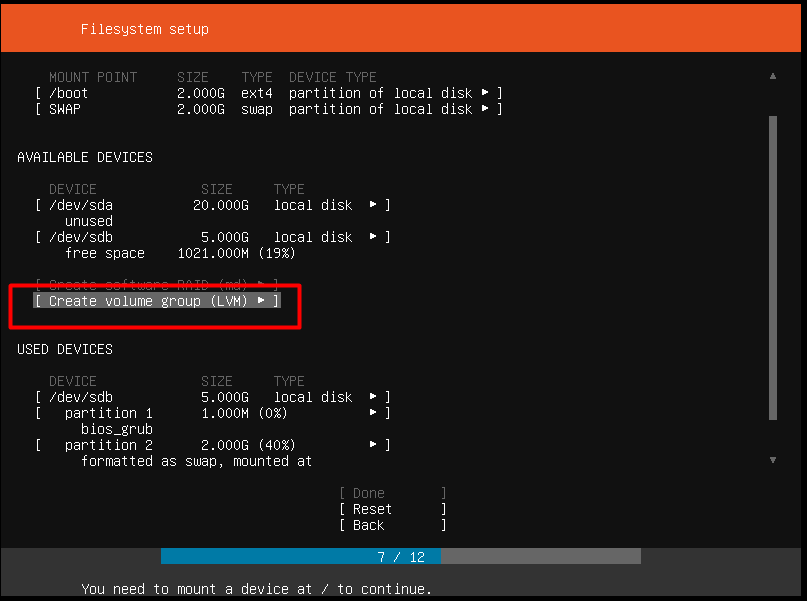
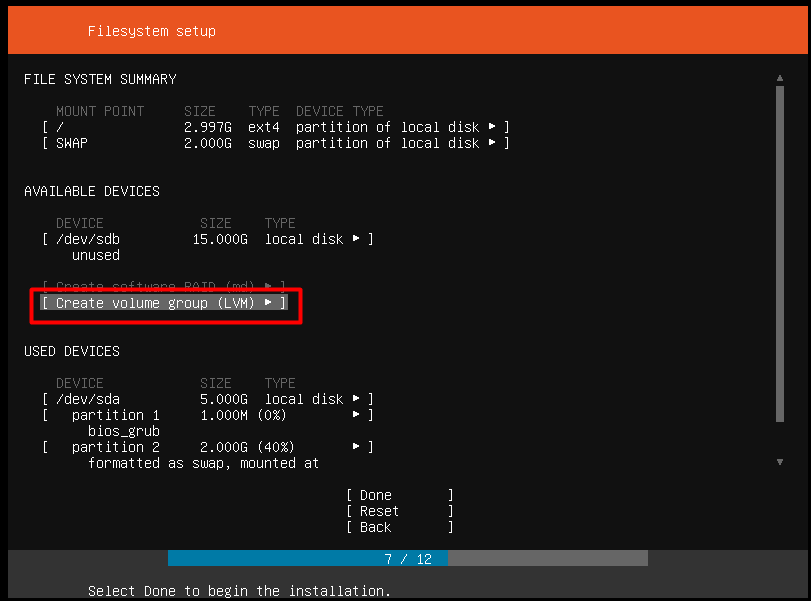
1

diff --git a/Linux/LVM/docs/3.Cai_dat_Logical_Volume.md b/Linux/LVM/docs/3.Cai_dat_Logical_Volume.md
@@ -11,11 +11,11 @@
  <div id='1'/>  
 
 ## 1. Cài đặt Linear :
-Từ 1 ổ cứng 1Gb , ta tạo partition 100Mb và cài đặt logical volume ( /dev/sde1)
+- Từ 1 ổ cứng 1Gb , ta tạo partition 100Mb và cài đặt logical volume ( /dev/sde1)
 ![](../img/LV_2.png)  
 
-Cách ghi của ổ Linear:  
-Dữ liệu khi được lưu vào logical volume sẽ lưu  xuống physical volume , từng pe sẽ được sử dụng để lưu trữ dữ liệu , lần lượt từng physical volume sẽ được lưu trữ đến khi hết các physical volume gộp nên volume group.  
+### Cách ghi của ổ Linear:  
+- Dữ liệu khi được lưu vào logical volume sẽ lưu  xuống physical volume , từng pe sẽ được sử dụng để lưu trữ dữ liệu , lần lượt từng physical volume sẽ được lưu trữ đến khi hết các physical volume gộp nên volume group.  
 
 ![](../img/Linear_write.gif)  
 
@@ -35,14 +35,14 @@ Dữ liệu khi được lưu vào logical volume sẽ lưu  xuống physical vo
 lvcreate -L 25M -n lv_linear vg_linear
 ```  
 
-  sau khi tạo logical volume ta mount lại để sử dụng :  
+  - Sau khi tạo logical volume ta mount lại để sử dụng :  
 
 ```
  mount /dev/vg_linear/lv_linear /home/user/Ten_directory  
 ```  
 ![](../img/LV_1.png)  
 
-Kiểm tra bằng cách đưa một file 20MB vào directory vừa mount , sau đó sử dụng `bwm-ng` để xem dữ liệu được ghi trên physical volume sde1:  
+- Kiểm tra bằng cách đưa một file 20MB vào directory vừa mount , sau đó sử dụng `bwm-ng` để xem dữ liệu được ghi trên physical volume sde1:  
  
 ![](../img/LV_bwm_3.png)    
 
@@ -51,26 +51,26 @@ Ta thấy dữ liệu được ghi vào PV sde1 20MB.
 
 ### Extend Linear Volume
 
-- Giả sử nếu logical volume đã đầy , ta có thể thêm dung lượng vào như sau :  
+- Giả sử nếu logical volume đã đầy , ta có thể thêm dung lượng vào như sau :    
 Trước tiên ta phải kiểm tra volume group xem có còn dung lượng free không bằng lệnh : 
 ```
 vgs
 ```  
 ![](../img/LV_4.png)     
-Ta thấy sau khi sử dung 25MB cho logical tại volume group còn free 84MB  
+- Ta thấy sau khi sử dung 25MB cho logical tại volume group còn free 84MB  
 Để tăng kích thước Logical Volume ta sử dụng câu lệnh sau:
 
 ```
 lvextend -L +20M /dev/vg_linear/lv_linear  
 ```
-Trong đó -L là dung lượng muốn thêm vào  
+>Trong đó -L là dung lượng muốn thêm vào  
 
 ![](../img/LV_5.png)     
 
-Ta thấy logical volume cũ đã tăng thêm 20MB. 
+- Ta thấy logical volume cũ đã tăng thêm 20MB. 
 
 ![](../img/LV_6.png)       
-Sau đó muốn sử dụng được lượng dung lượng extend ta dùng 2 lệnh sau rồi mount vào hệ thống để sử dụng :  
+- Sau đó muốn sử dụng được lượng dung lượng extend ta dùng 2 lệnh sau rồi mount vào hệ thống để sử dụng :  
 ```
 e2fsck -f /dev/vg_linear/lv_linear  
 
@@ -79,11 +79,12 @@ resize2fs /dev/vg_linear/lv_linear
  <div id='2'/>  
 
 ## 2. Cài đặt Striped:  
-Từ 1 ổ 1Gb ta chia thành 2 physical volume , mỗi physical volume 100MB  
+- Từ 1 ổ 1Gb ta chia thành 2 physical volume , mỗi physical volume 100MB  
  ![](../img/LV_10.png)  
 
-Cách ghi ổ striped :   
-Kiểu LV này giúp cải thiện khả năng ghi đọc của ổ cứng . Striping giúp chia đều dữ liệu vào các PV. Dữ liệu khi lưu vào logical volume sẽ được chia nhỏ ra và chia đều cho từng PE ở dưới (Ví dụ nếu có 2 physical volume dữ liệu sẽ lưu vào pv thứ nhất rồi pv thứ hai và lặp lại quá trình đến khi lưu hết dữ liệu trên logical volume).   
+### Cách ghi ổ striped :   
+- Kiểu LV này giúp cải thiện khả năng ghi đọc của ổ cứng . Striping giúp chia đều dữ liệu vào các PV. Dữ liệu khi lưu vào logical volume sẽ được chia nhỏ ra và chia đều cho từng PE ở dưới (Ví dụ nếu có 2 physical volume dữ liệu sẽ lưu vào pv thứ nhất rồi pv thứ hai và lặp lại quá trình đến khi lưu hết dữ liệu trên logical volume).  
+
 ![](../img/striped_write.gif)  
 
 ### Cài đặt  
@@ -109,7 +110,7 @@ lvcreate -L 60M -n lv_striped -i2 vg_strip
  -i2 số physical volume ta ghi vào khi sử dụng striped,  ở đây khi dữ liệu được ghi vào sẽ chia vào 2 physical volume  
 
 
-Ta có thể kiểm tra bằng các lệnh :  
+- Ta có thể kiểm tra bằng các lệnh :  
 
 ```
 pvdisplay -m
@@ -118,8 +119,9 @@ lvs --segments
 ```
   ![](../img/LV_7.png)   
 
-![](../img/LV_9.png)  
-Logical volume có type là striped .  
+![](../img/LV_9.png)
+
+- Logical volume có type là striped .  
  
 
 **Lưu ý:**  
@@ -127,39 +129,39 @@ Logical volume có type là striped .
 
 ![](../img/LV_8.png)  
 
-Ta thấy hai physical volume /dev/sdb1 và dev/sdb2 đã dành ra một khoảng là 30 MB để lưu trữ cho logical volume với dung lượng là 60MB.  
+- Ta thấy hai physical volume /dev/sdb1 và dev/sdb2 đã dành ra một khoảng là 30 MB để lưu trữ cho logical volume với dung lượng là 60MB.  
 
 Để kiểm tra striped ta copy thử 1 file 50MB vào logical volume mirror đã được mount và dùng `bwm-ng` để theo dõi :  
    
 ![](../img/LV_bwm_2.png)    
 
-Ta thấy dữ liệu được ghi tại sdb1 là 25MB và ở  sdb2 là 25MB. Với tổng dữ liệu từ logical volume là 50MB đã được chia đều ra cho 2 physical volume. 
+- Ta thấy dữ liệu được ghi tại sdb1 là 25MB và ở  sdb2 là 25MB. Với tổng dữ liệu từ logical volume là 50MB đã được chia đều ra cho 2 physical volume. 
 ### Extend Striped Volume
 
 - Giả sử ta đã sử dụng hết dung lượng của logical volume và extend hết từ volume group . Nếu muốn thêm dung lượng volume group ta sẽ add thêm 2 physical volume vào volume group này .  
 ```
 vgextend vg_striped /dev/sdb3 /dev/sdb4
 ```  
- Với sdb3 và sdb4 là hai physical volume , mỗi physical volume có dung lượng 100MB . Sau đó ta extend logical volume  
+- Với sdb3 và sdb4 là hai physical volume , mỗi physical volume có dung lượng 100MB . Sau đó ta extend logical volume  
 
-Kiểm tra bằng lệnh :  
+- Kiểm tra bằng lệnh :  
 ```
 vgs
 ```  
 ![](../img/LV_15.png)  
 
-Sau khi extend volume group , ta extend logical volume bằng lệnh :  
+- Sau khi extend volume group , ta extend logical volume bằng lệnh :  
 
 ```
 lvextend /dev/vg_striped/lv_striped -L +300M
 ```
 ![](../img/LV_16.png)  
 
-Ta thấy logical volume đã tăng thêm dung lượng , từ 60MB lên 360MB
+- Ta thấy logical volume đã tăng thêm dung lượng , từ 60MB lên 360MB
 
 ![](../img/LV_17.png)  
 
-Kiểm tra physical volume bằng lệnh :  
+- Kiểm tra physical volume bằng lệnh :  
 ```
 pvdisplay -m  
 ```  
@@ -167,9 +169,9 @@ pvdisplay -m
 
 ![](../img/LV_19.png)    
 
-Sau khi lưu hết tại hai 200MB vào ổ physical volume sdb1 ,sdb2 , dữ liệu lưu tiếp 160MB còn lại vào sdb3 , sdb4 ( 22PE được dùng để lưu trữ ) .  
+- Sau khi lưu hết tại hai 200MB vào ổ physical volume sdb1 ,sdb2 , dữ liệu lưu tiếp 160MB còn lại vào sdb3 , sdb4 ( 22PE được dùng để lưu trữ ) .  
 
-Để chạy và mount để sử dụng đủ số dung lượng mà ta vừa extend , cần sử dụng 2 lệnh sau rồi mount lại logical volume :  
+- Để chạy và mount để sử dụng đủ số dung lượng mà ta vừa extend , cần sử dụng 2 lệnh sau rồi mount lại logical volume :    
 ```
 e2fsck -f /dev/vg_striped/lv_striped 
 
@@ -178,12 +180,12 @@ resize2fs /dev/vg_striped/lv_striped
  <div id='3'/>  
 
 ## 3. Cài đặt Mirror: 
-Từ ổ cứng 2Gb ta tạo ra 2 physical volume 100MB    
+- Từ ổ cứng 2Gb ta tạo ra 2 physical volume 100MB    
 ![](../img/LV_13.png)  
 
   
- Cách ghi ổ mirror:  
- Kiểu ghi này copy data trên các thiết bị khác nhau .Khi dữ liệu được viết vào một PV , nó sẽ được viết luôn vào PV còn lại . Cung cấp sự an toàn nếu các thiết bị có hỏng hóc . Trong các LV chạy mirror , nếu một LV bị hỏng , LV còn lại sẽ chạy Linear Volume và vẫn có thể truy cập đến được.    
+ ### Cách ghi ổ mirror:  
+ - Kiểu ghi này copy data trên các thiết bị khác nhau .Khi dữ liệu được viết vào một PV , nó sẽ được viết luôn vào PV còn lại . Cung cấp sự an toàn nếu các thiết bị có hỏng hóc . Trong các LV chạy mirror , nếu một LV bị hỏng , LV còn lại sẽ chạy Linear Volume và vẫn có thể truy cập đến được.    
 ![](../img/LV_14.png)    
 
   ### Cài đặt   
@@ -206,15 +208,15 @@ lvcreate -L 70M -m1 -n lv_mirror vg_mirror
  **Lưu ý :**   
 >Điều kiện chạy được mirror volume là Logical Volume tạo ra không được vượt quá dung lượng physical Volume bé nhất  
 
-Ta kiểm tra bằng lệnh :  
+- Ta kiểm tra bằng lệnh :  
 ```
 lvs --segments
 ```  
- Ta thấy type là Raid1 , tức là logical volume mirror đã được cài đặt thành công.  
+ - Ta thấy type là Raid1 , tức là logical volume mirror đã được cài đặt thành công.  
 
 ![](../img/LV_3.1.png)
   
-Kiểm tra physical volume bằng lệnh :  
+- Kiểm tra physical volume bằng lệnh :  
 ```
 pvdisplay -m
 ```
@@ -238,32 +240,32 @@ vgextend /dev/vg_mirror /dev/sdd3 /dev/sdd4
 
 ![](../img/LV_3.3.png)   
 
-Kiểm tra bằng lệnh :  
+- Kiểm tra bằng lệnh :  
 ```
 vgs
 ```  
 ![](../img/LV_3.4.png)  
-Ta thấy dung lượng volume group đã tăng lên từ 200MB lên 400MB .  
+- Ta thấy dung lượng volume group đã tăng lên từ 200MB lên 400MB .  
 **Lưu ý :** 
 > Mặc dù tổng volume là 400MB nhưng ta chỉ có thể tạo logical volume tối đa là 200MB , do cơ chế mirror sẽ tạo các bản sao sang các ổ khác .  
 
 
-Ta sẽ extend dung lượng logical volume thêm 70MB :  
+- Ta sẽ extend dung lượng logical volume thêm 70MB :  
 ```
 lvextend -L +70M /dev/vg_mirror/lv_mirror
 ```
 ![](../img/LV_3.5.png)  
 
-Kiểm tra các physical volume :  
+- Kiểm tra các physical volume :  
 ```
 pvdisplay -m
 ```
 ![](../img/LV_3.6.png)  
 ![](../img/LV_3.7.png)  
 
-Ta thấy sau khi sử dụng hết 100MB từ sdd1 và sdd2 sẽ lưu trữ tiếp sang 2 physical volume sdd3 và sdd4 . Với logical volume ở trên đã được extend ra 140MB , sau khi lưu hết 100MB vào sdd1 và sdd2 , 40MB còn lại sẽ được lưu tiếp vào sdd3 và sdd4 (13 PE đã được sử dụng) với cơ chế mirror .  
+- Ta thấy sau khi sử dụng hết 100MB từ sdd1 và sdd2 sẽ lưu trữ tiếp sang 2 physical volume sdd3 và sdd4 . Với logical volume ở trên đã được extend ra 140MB , sau khi lưu hết 100MB vào sdd1 và sdd2 , 40MB còn lại sẽ được lưu tiếp vào sdd3 và sdd4 (13 PE đã được sử dụng) với cơ chế mirror .  
 
-Để chạy và mount để sử dụng đủ số dung lượng mà ta vừa extend , cần sử dụng 2 lệnh sau rồi mount lại logical volume :  
+- Để chạy và mount để sử dụng đủ số dung lượng mà ta vừa extend , cần sử dụng 2 lệnh sau rồi mount lại logical volume :  
 ```
 e2fsck -f /dev/vg_mirror/lv_mirror
 

diff --git a/Linux/LVM/docs/4.Cai_dat_Ubuntu_Server_LVM.md b/Linux/LVM/docs/4.Cai_dat_Ubuntu_Server_LVM.md
@@ -1,12 +1,13 @@
 # Cài đặt   
 ### Cấu hình :  
-Cài đặt Ubuntu Server trên máy ảo VMWare , Sử dụng 2 ổ cứng để cài LVM  
+- Cài đặt Ubuntu Server trên máy ảo VMWare , Sử dụng 2 ổ cứng để cài LVM  , 1 ổ chứa các partition của OS , còn 1 ổ tạo LVM để lưu trữ dữ liệu .
  ![](../img/LV_4.18.png)  
 
 ### Cài đặt  
-Sau khi boot lên màn hình sẽ hiển thị màn hình chọn ngôn ngữ  :  
-![](../img/LV_4.1.png)  
-Ta chọn ngôn ngữ và nhấn Enter với các tùy chọn sau :  
+- Sau khi boot lên màn hình sẽ hiển thị màn hình chọn ngôn ngữ  :  
+![](../img/LV_4.1.png) 
+
+- Ta chọn ngôn ngữ và nhấn Enter với các tùy chọn sau :  
 
 ![](../img/LV_4.2.png)  
 ![](../img/LV_4.3.png)  
@@ -15,7 +16,7 @@ Ta chọn ngôn ngữ và nhấn Enter với các tùy chọn sau :
 ![](../img/LV_4.6.png)  
 
 
-Sau khi đến màn hình File Setup , ta chọn Manual để cấu hình LVM khi cài đặt  
+- Sau khi đến màn hình File Setup , ta chọn Manual để cấu hình LVM khi cài đặt  
 
   ![](../img/LV_4.7.png)  
 
@@ -27,7 +28,7 @@ Sau khi đến màn hình File Setup , ta chọn Manual để cấu hình LVM kh
   Ta tạo Phân vùng swap cho hệ thống :  
     ![](../img/LV_4.9.png)  
 
-  Tiếp theo ta tạo phân vùng boot :  
+ Tương tự ta tạo phân vùng root :  
 
 ![](../img/LV_4.10.png)  
 
